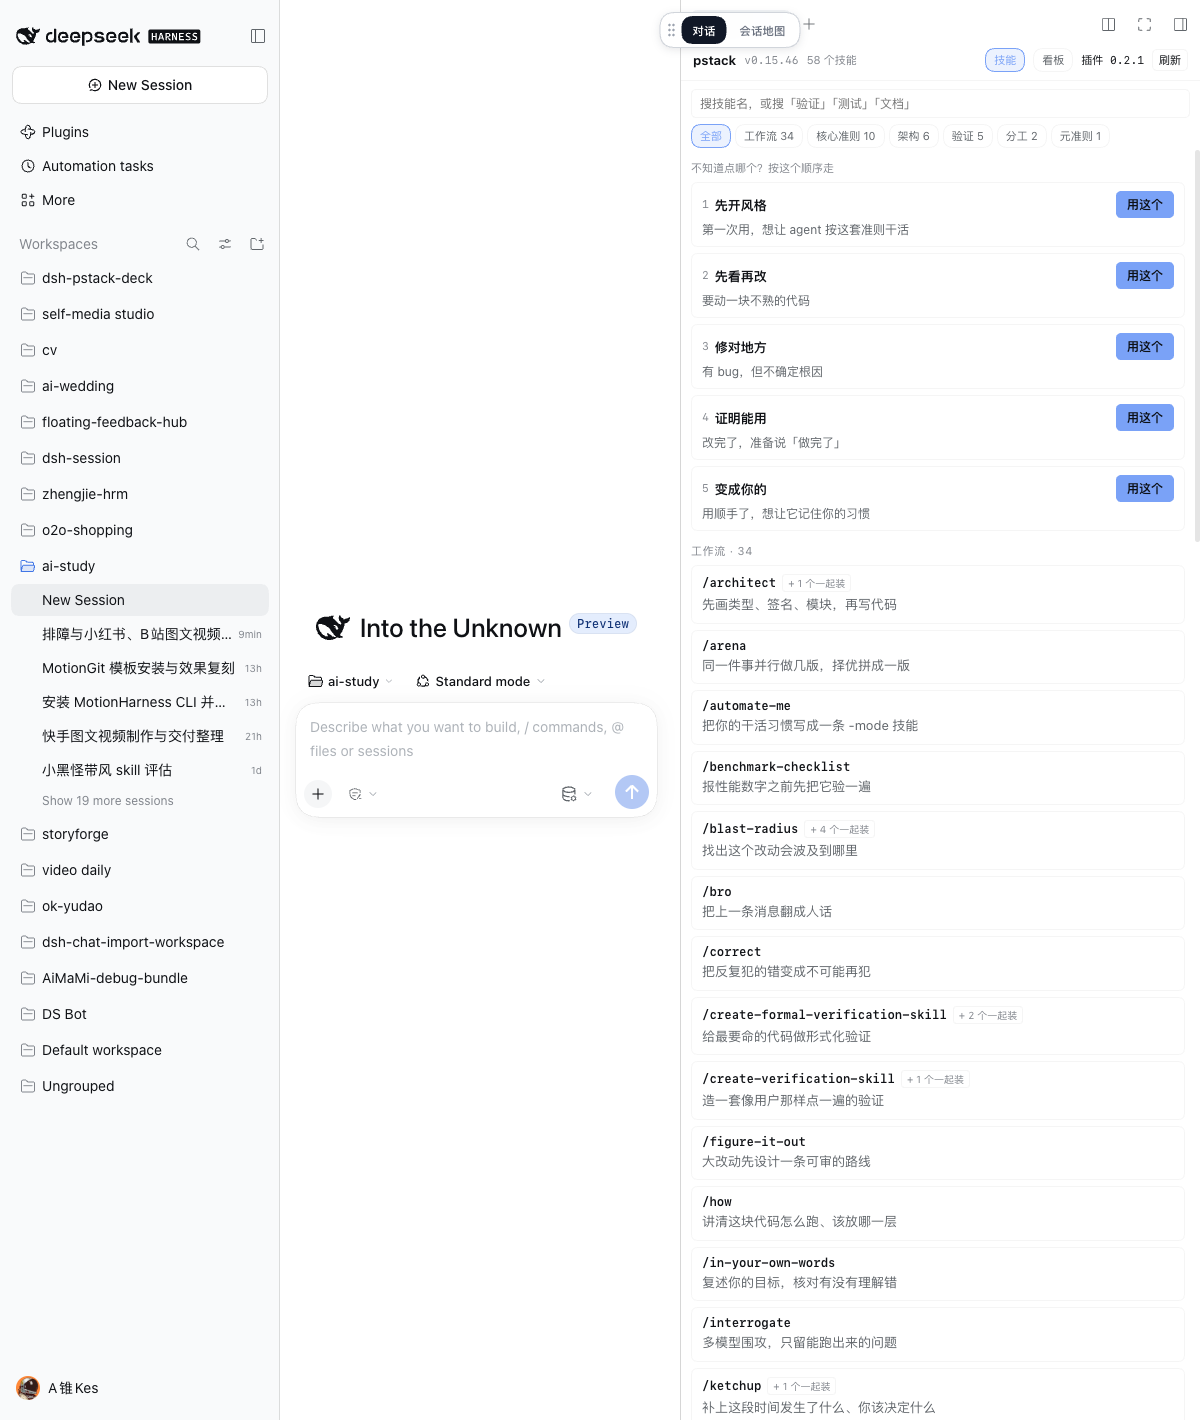
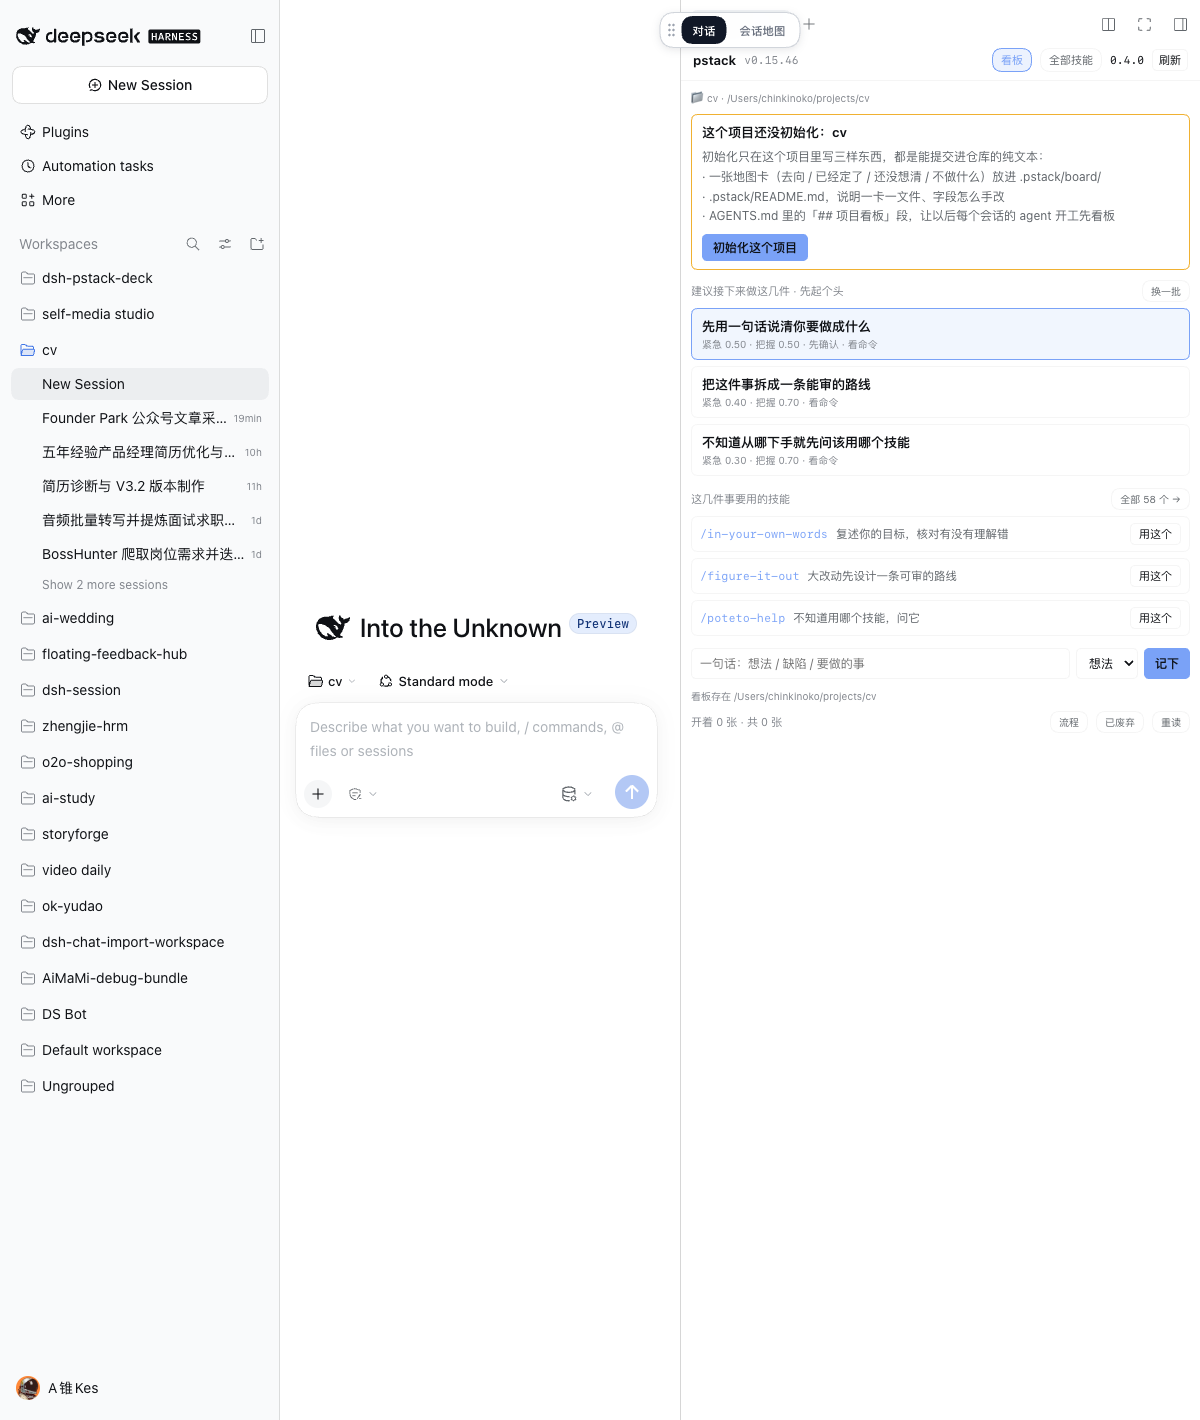
真机截图与 README：默认落在看板

diff --git a/README.md b/README.md
@@ -46,6 +46,10 @@
 
 ![下钻](docs/preview-drill.png)
 
+**真宿主** —— 起一个真 DSH 实例、真浏览器点开的右栏，不是渲染稿：打开就是看板，项目名与板路径在顶上。
+
+![真机](docs/verify-real-host.png)
+
 ---
 
 ## pstack 是什么
